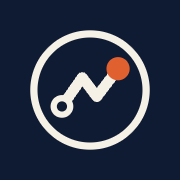
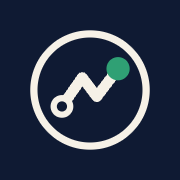
Emerald instead of orange, clean footer, Overview and phone layout fixes
- Footer: link columns replace the giant cropped wordmark
- Primary buttons and logo dot are emerald; success uses a softer sage
- Overview: photo is a thumbnail in the About card; cards top-aligned
- Phone: Plan page no longer overflows sideways

Changed region(s): [[0.5833, 0.3056, 0.7222, 0.4722]]

diff --git a/src/styles.css b/src/styles.css
@@ -18,8 +18,8 @@
 /*
  * Waypoint design system: the ARG Core editorial language, with apple.com's craft.
  * - Type: Inter only. Bold headlines, regular body at 16px or more, sentence-case labels.
- * - Color: 60% warm cream canvas, 30% deep midnight blue (text, bars, dark mode), 10% burnt coral
- *   for the one primary action per screen; emerald only for success and confirmed states.
+ * - Color: 60% warm cream canvas, 30% deep midnight blue (text, bars, dark mode), 10% emerald
+ *   for the one primary action per screen; sage for success and confirmed states.
  * - Shape: sharp 4px surfaces, pill buttons, 8px fields.
  * - Motion: exponential ease-out, one authored moment per screen, springs for direct manipulation.
  * - Space: an 8px grid. All colors are oklch tokens; components use semantic classes only.
@@ -349,8 +349,8 @@
   --sunset-soft: oklch(0.925 0.025 85);
   --gold: oklch(0.7 0.12 80);
   --gold-soft: oklch(0.93 0.018 85);
-  --success: oklch(0.42 0.09 160);
-  --success-soft: oklch(0.93 0.035 155);
+  --success: oklch(0.45 0.06 150);
+  --success-soft: oklch(0.93 0.03 140);
   --shield: oklch(0.43 0.04 262);
   --shield-soft: oklch(0.93 0.018 85);
   --shield-foreground: oklch(0.985 0.01 85);
@@ -365,9 +365,9 @@
   --input: oklch(0.24 0.06 262 / 0.38);
   --ring: oklch(0.5 0.13 262);
   /* Brand coral (#FF6B4A): the logo's destination dot. Used sparingly for "you are here / next" cues. */
-  --brand-coral: oklch(0.54 0.16 38);
+  --brand-coral: oklch(0.5 0.1 165);
   /* Coral as small text (step numbers): darker so it reads at AA contrast on paper. */
-  --coral-text: oklch(0.5 0.16 38);
+  --coral-text: oklch(0.42 0.09 165);
   /* Solid emphasis surface (primary call to action, the balance card). */
   --ink: oklch(0.24 0.06 262);
   --ink-foreground: oklch(0.985 0.01 85);
@@ -435,9 +435,9 @@
   --sidebar-accent-foreground: var(--secondary-foreground);
   --sidebar-border: var(--border);
   --sidebar-ring: var(--ring);
-  --brand: oklch(0.54 0.16 38);
+  --brand: oklch(0.5 0.1 165);
   --brand-foreground: oklch(0.99 0.006 85);
-  --brand-deep: oklch(0.46 0.15 38);
+  --brand-deep: oklch(0.42 0.09 165);
 }
 .dark {
   color-scheme: dark;
@@ -463,8 +463,8 @@
   --sunset-soft: oklch(0.3 0.05 262);
   --gold: oklch(0.78 0.11 80);
   --gold-soft: oklch(0.29 0.05 262);
-  --success: oklch(0.74 0.12 160);
-  --success-soft: oklch(0.3 0.05 175);
+  --success: oklch(0.76 0.09 150);
+  --success-soft: oklch(0.3 0.04 160);
   --shield: oklch(0.86 0.025 262);
   --shield-soft: oklch(0.29 0.05 262);
   --shield-foreground: oklch(0.2 0.045 262);
@@ -477,8 +477,8 @@
   --separator: oklch(0.96 0.015 85 / 0.11);
   --input: oklch(0.96 0.015 85 / 0.32);
   --ring: oklch(0.78 0.1 262);
-  --brand-coral: oklch(0.7 0.15 40);
-  --coral-text: oklch(0.74 0.14 40);
+  --brand-coral: oklch(0.72 0.12 165);
+  --coral-text: oklch(0.76 0.11 165);
   --ink: oklch(0.96 0.015 85);
   --ink-foreground: oklch(0.2 0.045 262);
   --on-image: oklch(0.985 0.01 85);
@@ -522,9 +522,9 @@
   --material-thin: 0.58;
   --specular: oklch(1 0 0 / 0);
   --material-edge: oklch(0.96 0.015 85 / 0.11);
-  --brand: oklch(0.54 0.16 38);
+  --brand: oklch(0.52 0.1 165);
   --brand-foreground: oklch(0.959 0.013 87);
-  --brand-deep: oklch(0.6 0.16 38);
+  --brand-deep: oklch(0.58 0.1 165);
 }
 
 @layer base {
@@ -1272,20 +1272,6 @@
 }
 
 /* ---------- Signature details ---------- */
-/* The footer's oversized wordmark: the brand, set as large as the page allows. */
-.footer-mark {
-  font-family: var(--font-display);
-  font-optical-sizing: auto;
-  font-weight: 300;
-  font-size: 336px;
-  letter-spacing: -0.04em;
-  fill: color-mix(in oklab, var(--foreground) 9%, var(--background));
-  user-select: none;
-}
-.footer-dot {
-  fill: var(--primary);
-}
-
 .not-found-mark {
   font-family: var(--font-display);
   font-weight: 700;

diff --git a/src/components/app/AppShell.tsx b/src/components/app/AppShell.tsx
@@ -378,43 +378,51 @@ function MobileMenu({
 /** The end of every page: the brand set large, then what the numbers are and the legal links. */
 function Footer() {
   const year = new Date().getFullYear();
+  const link =
+    "inline-flex min-h-11 items-center text-foreground/80 hover:text-foreground hover:underline underline-offset-4";
   return (
-    <footer className="overflow-hidden border-t border-separator print:hidden">
-      <div aria-hidden className="page-container pt-16 sm:pt-24">
-        {/* The brand set as large as the page allows; drawn as a graphic, not text. */}
-        <svg viewBox="0 0 1000 236" className="footer-mark block h-auto w-full">
-          <text x="-10" y="204">
-            Waypoint
-            <tspan className="footer-dot">.</tspan>
-          </text>
-        </svg>
+    <footer className="border-t border-separator bg-card print:hidden">
+      <div className="page-container grid gap-10 py-12 sm:grid-cols-[1.4fr_1fr_1fr] sm:py-16">
+        <div>
+          <Logo markClassName="size-8" wordClassName="text-title-2" />
+          <p className="mt-4 max-w-xs text-footnote text-muted-foreground">
+            Plan a trip, price it to the dollar and see what to book. Estimates in US dollars.
+            Waypoint never books or takes payment.
+          </p>
+        </div>
+        <div className="grid grid-cols-2 gap-8 sm:contents">
+          <nav aria-label="Trip tools" className="flex flex-col">
+            <p className="mb-2 text-footnote font-semibold">Trip tools</p>
+            {[
+              ...NAV.filter((n) => n.to !== "/road-trip"),
+              { to: "/spending" as const, label: "Spending" },
+            ].map((n) => (
+              <Link key={n.to} to={n.to} className={link}>
+                {n.label}
+              </Link>
+            ))}
+          </nav>
+          <nav aria-label="About" className="flex flex-col">
+            <p className="mb-2 text-footnote font-semibold">About</p>
+            <Link to="/privacy" className={link}>
+              Privacy
+            </Link>
+            <Link to="/terms" className={link}>
+              Terms
+            </Link>
+            <Link to="/terms" hash="credits" className={link}>
+              Credits
+            </Link>
+            <a href={`mailto:${LEGAL.contactEmail}`} className={link}>
+              Contact
+            </a>
+          </nav>
+        </div>
       </div>
-      <div className="page-container flex flex-wrap items-center justify-between gap-x-8 gap-y-4 border-t border-separator py-6 label-mono">
-        <span>Estimates in US dollars. Never books or takes payment.</span>
-        <span className="flex flex-wrap items-center gap-x-6">
-          <span>
-            © {year} {LEGAL.owner}
-          </span>
-          <Link to="/privacy" className="inline-flex min-h-12 items-center hover:text-foreground">
-            Privacy
-          </Link>
-          <Link to="/terms" className="inline-flex min-h-12 items-center hover:text-foreground">
-            Terms
-          </Link>
-          <Link
-            to="/terms"
-            hash="credits"
-            className="inline-flex min-h-12 items-center hover:text-foreground"
-          >
-            Credits
-          </Link>
-          <a
-            href={`mailto:${LEGAL.contactEmail}`}
-            className="inline-flex min-h-12 items-center hover:text-foreground"
-          >
-            Contact
-          </a>
-        </span>
+      <div className="border-t border-separator">
+        <p className="page-container py-4 text-footnote text-muted-foreground">
+          © {year} {LEGAL.owner}
+        </p>
       </div>
     </footer>
   );

diff --git a/src/routes/dashboard.tsx b/src/routes/dashboard.tsx
@@ -7,7 +7,7 @@ import { ApproxMoney, CATEGORY_COLOR_VAR } from "@/components/app/bits";
 import { AnimatedMoney, stagger } from "@/components/app/motion";
 import { ShareTripButton } from "@/components/app/ShareTrip";
 import { PageHeader } from "@/components/app/TripHeader";
-import { DestinationCard, DestinationHero } from "@/components/app/DestinationIntro";
+import { DestinationCard } from "@/components/app/DestinationIntro";
 import { TripReady } from "@/components/app/TripReady";
 import { WeatherCard } from "@/components/app/Weather";
 import { Button } from "@/components/ui/button";
@@ -57,11 +57,6 @@ function Dashboard() {
       <PageHeader title={place}>{!trip.isSample && <ShareTripButton />}</PageHeader>
 
       <div className="page-container mt-6 space-y-4">
-        <DestinationHero
-          dest={dest}
-          origin={trip.setup.origin}
-          className="h-24 w-40 sm:h-28 sm:w-48"
-        />
         <TripReady />
         <div className="flex flex-col gap-4 lg:flex-row">
           {/* Balance */}
@@ -215,8 +210,8 @@ function Dashboard() {
           )}
         </section>
 
-        <div className="layout-5-7">
-          <DestinationCard dest={dest} origin={trip.setup.origin} photo={false} />
+        <div className="layout-5-7 items-start">
+          <DestinationCard dest={dest} origin={trip.setup.origin} />
           <WeatherCard />
         </div>
       </div>

diff --git a/src/components/app/Logo.tsx b/src/components/app/Logo.tsx
@@ -1,12 +1,12 @@
 import { cn } from "@/lib/utils";
 
 /**
- * The Waypoint mark: a ring holding one route, from a hollow origin to a coral
+ * The Waypoint mark: a ring holding one route, from a hollow origin to an emerald
  * destination dot. Geometry lives on a 32-unit grid and matches public/favicon.svg
  * (which sets it on a dark tile); keep the two in step. The ring and route follow the
- * text color, the dot is the brand coral, so it reads on dark and on cream paper.
+ * text color, the dot is the brand emerald, so it reads on dark and on cream paper.
  */
-export const BRAND = { coral: "#E0602F", ink: "#F6F1E7", ground: "#0F1A33" } as const;
+export const BRAND = { emerald: "#2FA074", ink: "#F6F1E7", ground: "#0F1A33" } as const;
 export const ROUTE_PATH = "M9.4 20.2 L14.1 12.9 L17.6 17.9 L22.6 10.7";
 
 export function LogoMark({
@@ -61,10 +61,10 @@ export function LogoMark({
         cy="10.7"
         r="2.4"
         fill="none"
-        stroke={BRAND.coral}
+        stroke={BRAND.emerald}
         strokeWidth="1"
       />
-      <circle className="logo-dest" cx="22.6" cy="10.7" r="2.4" fill={BRAND.coral} />
+      <circle className="logo-dest" cx="22.6" cy="10.7" r="2.4" fill={BRAND.emerald} />
     </svg>
   );
 }

diff --git a/src/routes/index.tsx b/src/routes/index.tsx
@@ -361,7 +361,7 @@ function Welcome() {
       <section className="relative overflow-hidden">
         <div className="page-container pt-12 pb-16 sm:pt-20 sm:pb-24">
           <div className="grid gap-16 xl:grid-cols-[1.3fr_1fr] xl:items-end">
-            <div>
+            <div className="min-w-0">
               <h1 aria-label="Plan a trip, to the dollar." className="title-display text-display">
                 {["Plan", "a", "trip,", "to", "the", "dollar."].map((word, i) => (
                   <span key={word} aria-hidden>

diff --git a/src/components/ui/button.tsx b/src/components/ui/button.tsx
@@ -11,7 +11,7 @@ const buttonVariants = cva(
   {
     variants: {
       variant: {
-        // One primary per screen: burnt coral fill, cream text.
+        // One primary per screen: emerald fill, cream text.
         default: "bg-brand text-brand-foreground hover:bg-brand-deep",
         destructive: "bg-destructive text-destructive-foreground hover:bg-destructive/90",
         // Secondary: a transparent pill with a hairline.

diff --git a/src/components/app/DestinationIntro.tsx b/src/components/app/DestinationIntro.tsx
@@ -52,7 +52,7 @@ export function DestinationPhoto({
           target="_blank"
           rel="noopener noreferrer"
           title="Photo from Wikipedia"
-          className="relative block overflow-hidden rounded-lg"
+          className="relative block w-56 max-w-full overflow-hidden rounded-lg"
         >
           <Photo src={s.image} alt={s.title} className="aspect-[16/9] w-full" />
         </a>

diff --git a/src/components/app/OpenRouteMap.tsx b/src/components/app/OpenRouteMap.tsx
@@ -9,7 +9,7 @@ import type { LatLng, RealRoute, RouteStop } from "@/lib/routing/types";
  */
 
 const BLUE = "#0B5C5A";
-const CORAL = "#E0501A";
+const CORAL = "#2FA074";
 const STYLE = {
   light: "https://tiles.openfreemap.org/styles/positron",
   dark: "https://tiles.openfreemap.org/styles/dark",

diff --git a/AGENTS.md b/AGENTS.md
@@ -69,7 +69,7 @@
 - Groups go up to `MAX_TRAVELERS` (20, in `budget.ts`) everywhere: the Plan stepper, `setupFromDraft` and the assistant.
 - Live price searches are cached on the server (`src/lib/prices/cache.server.ts`: in-memory plus Cloudflare's `caches.default` when present, both best-effort) so an identical search within a few hours spends no SerpApi searches: flights and hotel listings 3h (hotel listings are shared by every travel style; the style's pick is made after), gas 12h, airport codes 7 days. Only answers are cached, never failures; keys hold places and dates, never API keys. `fetchedAt` is the oldest part's real search time and `reused` says the toast should show how old the prices are (`reusedNote`).
 - Sharing (`src/lib/share.ts`, `ShareTripButton`, `/shared`): the trip is packed into the link's `#trip=` fragment (deflate-raw + base64url, "j" plain fallback), so it needs no account or database and never reaches the server. `sharedTripPayload()` leaves out bookings, the account link, the trip id, fetched price listings and `originPoint` (exact coordinates); the start city's name stays. Links are untrusted: `decodeTrip()` caps sizes and `cleanSharedTrip()` keeps only http(s) links and clamps the group size before `tripActions.openSharedTrip()` opens it as a new trip of the traveler's own. The share button only shows for a real trip (not the sample); the shared page is `noindex`.
-- **Palette (2026-11-11, owner-supplied; supersedes the green/cream and emerald color notes below)**: 60% warm cream canvas (`--background` ~#F6F1E7), 30% deep midnight blue (text, bars, `--ink`; dark mode is a midnight-blue canvas ~#0F1A33), 10% burnt coral (`--brand` #C2410C-family, the one primary button per screen and the logo's destination dot). Links, selected states, focus and the headline accent word use `--primary` (a clear blue). Emerald/sage is only for success and confirmed states (`--success`). Gold is never used for buttons. Trip-type and category hues stay as data colors. Brand assets use midnight `#0F1A33`, cream `#F6F1E7` and coral `#E0602F`. The detector's `cream-palette` rule is ignored on purpose (the owner chose cream).
+- **Palette (2026-11-11, owner-supplied; supersedes the green/cream and emerald color notes below)**: 60% warm cream canvas (`--background` ~#F6F1E7), 30% deep midnight blue (text, bars, `--ink`; dark mode is a midnight-blue canvas ~#0F1A33), 10% emerald (`--brand` #1F7A5A-family, the one primary button per screen and the logo's destination dot; the owner disliked the orange/coral first tried). Links, selected states, focus and the headline accent word use `--primary` (a clear blue). Success and confirmed states use a softer sage (`--success`), distinct from the emerald button. Gold is never used for buttons. Trip-type and category hues stay as data colors. Brand assets use midnight `#0F1A33`, cream `#F6F1E7` and emerald `#2FA074`. The detector's `cream-palette` rule is ignored on purpose (the owner chose cream).
 - **Look (current, supersedes the argcoresolutions.com bullets below where they differ)**: the owner found the clone of argcoresolutions.com hard to read and did not want it copied. Waypoint is a clean, readable app: light by default (`theme.ts` falls back to light), soft white surfaces on `oklch(0.985 0.004 160)`, dark mode is a lifted dark grey (not near-black), Inter only (bold headlines, 16px+ body, sentence-case labels at 13px; no serif, no mono, no uppercase tracked labels), emerald stays the single accent, surfaces and cards have 12px corners, buttons stay pills. `title-display em` is an upright accent-colored word. Destination photos are small: a 160-192px thumbnail on the Overview and 16:9 cards in the ideas row (400px images), never a full-width hero. Fonts: only Inter is loaded and preloaded.
 - Design system (the language of the owner's site, argcoresolutions.com, with apple.com's craft; `src/test/design-system.test.ts` enforces it; `docs/design/language.md` is the readable version, `docs/design/hig.md` the history of the earlier Apple-style system). Type: three self-hosted faces (OFL): Fraunces (`--font-display`, `title-display`: light 300, optical size on, `<em>` inside it is the italic emerald accent word, also `money-display` for amounts), Inter (`--font-sans`, text and controls) and JetBrains Mono (`--font-mono`: `label-mono` is the small uppercase tracked label for data (dates, regions, amounts), never a kicker above a heading). Metric-matched fallback faces (`Fraunces Fallback`, `Inter Fallback`, measured widths) and `<link rel=preload>` for the four above-the-fold files (`__root.tsx`) keep the late font swap from shifting layout; `.hero-line` has a fixed height for the same reason. A 9-level scale (`text-display` 52-128px, `text-large-title` 40-76, `text-title-1` 30, `text-title-2` 24, `text-headline` 19, `text-body` 17, `text-footnote` 14, `text-caption`/`text-micro` 12, each with its own line height, tracking and weight; the smallest text is 12px). Shape: buttons are pills (`rounded-full`; 44px, `sm` 36px, `lg` 48px; one emerald primary per screen, outlined hairline pills for the rest, `loading` shows a spinner and blocks double presses), fields are 8px (`rounded-lg`, `bg-card`, hairline `border-input`), surfaces and photos 4px; radii come from one token scale, no `rounded-[..]`. Spacing is an 8px grid (tested); `page-container` is up to 1328px with 24/32/48px side padding. Hairline rules, not boxes, separate groups.
 - App frame (`AppShell.tsx`): from 1024px a sticky translucent `TopNav` (logo, Overview, Budget, Itinerary, Road trip (road trips only), Book, Spending, theme, account, and an outlined "Plan a trip" pill) with a scroll-progress line (`.nav-progress`, CSS scroll-driven) and underline-drawing links; phones and tablets get a slim top bar and a bottom tab bar within thumb reach (Plan, Overview, Budget, Days, More; More opens a sheet above the tabs with the trip summary, every section, the account pages and the legal links; it takes focus when it opens and Escape returns it; `--tabbar` is 0 from 1024px). The footer is the brand set as a huge light wordmark (an SVG, so it is graphic, not low-contrast text) over a mono legal row. Each page's `PageHeader` has the title with its last word italic emerald (`accentTitle`), the trip bar (type chip, dates, travelers, Edit trip), the page's actions and its next step (`NEXT_STEP`) as a pill from 640px up; the sample-trip note shows at every size.
